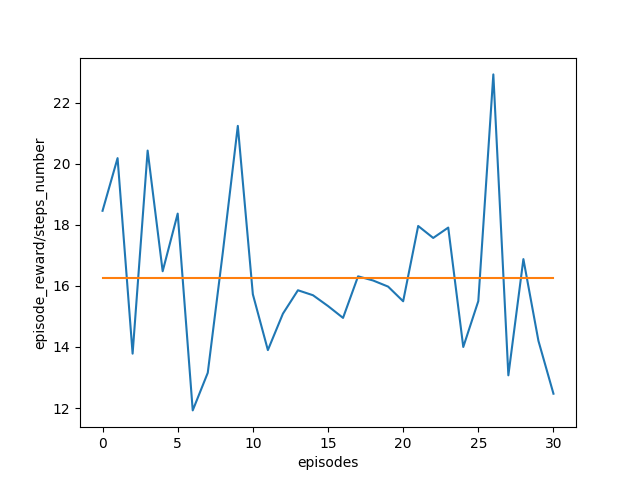
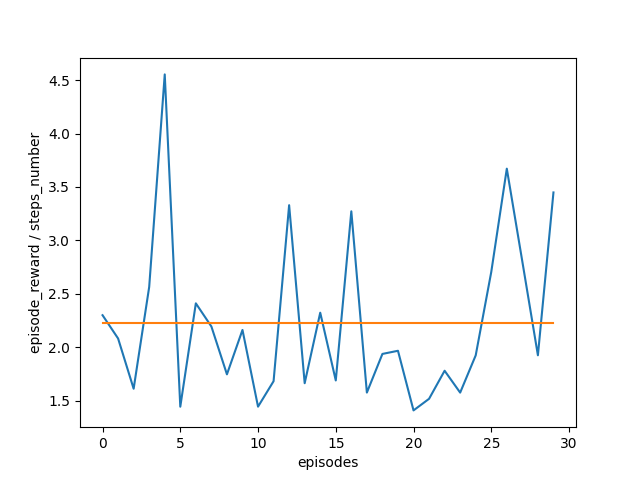
feat: class randomly robot

diff --git a/src/game.py b/src/game.py
@@ -2,14 +2,12 @@ from src.map import Map
 from src.robot import Robot
 from src.valueIteration_agent import ValueIterationAgent
 from src.direction import Directions
-
-from matplotlib import pyplot as plt
+from src.randomly import Randomly
 
 import pygame as pg
-import numpy as np
 import time
 class Game:
-    def __init__(self, title: str, map_path: str, cell_size: int , fps: int = 5) -> None:
+    def __init__(self, title: str, map_path: str, cell_size: int , fps: int = 120) -> None:
         self.title =  title
         self.map_path = map_path
         self.cell_size = cell_size
@@ -21,18 +19,11 @@ class Game:
         self.default_background_color = (64,64,64)
         self.setup()
 
-        self.value_iteration_agente = ValueIterationAgent(self.map)
+        # self.value_iteration_agente = ValueIterationAgent(self.map)
+        self.randomly = Randomly(self.map, self.robot, 20_000, 30)
         # for line in self.value_iteration_agente.values:
         #     print( line)
 
-        self.is_training = True
-        self.max_steps_number = 20_000
-        self.steps_number = 0
-        self.max_episode_number = 30
-        self.episode_number = 0
-        self.episode_reward = 0 
-        self.rewards =[]
-    
     @property
     def window_size(self):
         return(self.map.width, self.map.height)
@@ -77,68 +68,32 @@ class Game:
                 
 
     def update(self) -> None:
-        # self.randomly()
-        win, reward = self.robot.step(self.value_iteration_agente.get_move(self.robot.current_cell))
-        self.rewards.append(reward)
-        if win:
-            print("win heehehehehehe")
-            pg.quit()
-            # fig = plt.figure()
-            # ax = fig.add_subplot(111)
+        is_last_episode = self.randomly.update()
+        if is_last_episode:
+            exit()
+       
+        # win, reward = self.robot.step(self.value_iteration_agente.get_move(self.robot.current_cell))
+        # self.rewards.append(reward)
+        # if win:
+        #     print("win heehehehehehe")
+        #     pg.quit()
+        #     # fig = plt.figure()
+        #     # ax = fig.add_subplot(111)
 
-            # cax = ax.matshow(self.value_iteration_agente.values, interpolation='nearest', cmap='hot')
-            # fig.colorbar(cax)
+        #     # cax = ax.matshow(self.value_iteration_agente.values, interpolation='nearest', cmap='hot')
+        #     # fig.colorbar(cax)
 
-            # plt.savefig("figure2.png")
-            self.rewards.pop()
-            space = range(len(self.rewards))
-            average = np.average(self.rewards)
-            standard_deviation = np.std(self.rewards)
-            plt.plot(space,self.rewards)
-            plt.plot(space,[average for _ in space])
-            plt.savefig("figure3.png")
-        # if self.move_index < len(self.moves):
-        #     self.robot.step(self.moves[self.move_index])
-        #     self.move_index += 1
+        #     # plt.savefig("figure2.png")
+        #     self.rewards.pop()
+        #     space = range(len(self.rewards))
+        #     average = np.average(self.rewards)
+        #     standard_deviation = np.std(self.rewards)
+        #     plt.plot(space,self.rewards)
+        #     plt.plot(space,[average for _ in space])
+        #     plt.savefig("figure3.png")
+        
         pass
             
-    def randomly(self) -> None:
-        win, reward = self.robot.random_step()
-        self.steps_number += 1
-        self.episode_reward += reward
-
-        #reset
-        if win or self.steps_number > self.max_steps_number:
-            print(f"episode {self.episode_number} total reward {self.episode_reward/self.steps_number}")
-            self.rewards.append(self.episode_reward/self.steps_number)
-            self.episode_number += 1
-            self.steps_number = 0
-            self.episode_reward = 0
-            self.robot.current_cell = self.map.robot_inicial_cell
-            #end
-            if self.episode_number > self.max_episode_number:
-                time_end = time.time()
-                pg.quit()
-                plt.xlabel("episodes")
-                plt.ylabel("episode_reward/steps_number")
-                space = range(len(self.rewards))
-                average = np.average(self.rewards)
-                standard_deviation = np.std(self.rewards)
-                plt.plot(space,self.rewards)
-                plt.plot(space,[average for _ in space])
-               
-                plt.savefig("figure1.png")
-               
-
-                print("==========RandomSteps==========")
-                print(f"max steps number: {self.max_steps_number}")
-                print(f"max episode number: {self.max_episode_number}")
-                print(f"rewards: {[ round(rewards,2) for rewards in self.rewards]}")
-                print(f"average reward / steps_number: {round(average, 2)}")
-                print(f"standard_deviation reward / steps_number: {round(standard_deviation,2)}")
-                print(f"time took {round(time_end - self.time_start,2)} sec")
-                exit()
-    
     def draw(self) -> None:
         self.screen.fill(self.default_background_color)
         self.map.draw(self.screen)

diff --git a/src/randomly.py b/src/randomly.py
@@ -1,0 +1,70 @@
+from src.map import Map
+from src.robot import Robot
+from matplotlib import pyplot as plt
+
+
+import random
+import time
+import numpy as np
+
+class Randomly:
+    def __init__(self,map: Map, robot: Robot, max_steps_number: int,  max_episode_number: int) -> None:
+        self.map = map
+        self.robot = robot
+        self.max_steps_number = 20_000
+        self.max_episode_number = 30
+        self.steps_number = 0
+        self.episode_number = 0
+        self.episode_reward = 0 
+        self.rewards = []
+        self.space = range(max_episode_number)
+        self.average = 0
+        self.standard_deviation = 0 
+        self.start_time = time.time()
+        
+
+    def update(self) -> bool:
+        is_last_episode = False
+        win, reward = self.robot.random_step()
+    
+        self.episode_reward += reward
+        self.steps_number += 1
+        
+        if win or self.steps_number > self.max_steps_number:
+            print(f"episode {self.episode_number} total reward {self.episode_reward/self.steps_number}")
+            self.rewards.append(self.episode_reward/self.steps_number)
+            self.episode_number += 1
+            self.steps_number = 0
+            self.episode_reward = 0
+            self.robot.current_cell = self.map.robot_inicial_cell
+
+        if self.episode_number > self.max_episode_number:
+                self.calculate_statistics()
+                self.save_plot()
+                self.print_statistics()
+                is_last_episode = True
+
+        return is_last_episode
+                
+
+    def calculate_statistics(self) -> None:
+        self.rewards.pop()
+        self.time = time.time() - self.start_time
+        self.average = np.average(self.rewards)
+        self.standard_deviation = np.std(self.rewards)
+
+    def save_plot(self) -> None:
+        plt.xlabel("episodes")
+        plt.ylabel("episode_reward / steps_number")       
+        plt.plot(self.space, self.rewards)
+        plt.plot(self.space,[self.average for _ in self.space])   
+        plt.savefig("figure1.png")
+    
+    def print_statistics(self) -> None:
+        print("==========RandomSteps==========")
+        print(f"max steps number: {self.max_steps_number}")
+        print(f"max episode number: {self.max_episode_number}")
+        print(f"rewards: {[ round(rewards,2) for rewards in self.rewards]}")
+        print(f"average reward / steps_number: {round(self.average, 2)}")
+        print(f"standard_deviation reward / steps_number: {round(self.standard_deviation,2)}")
+        print(f"time took {round(self.time,2)} sec")
